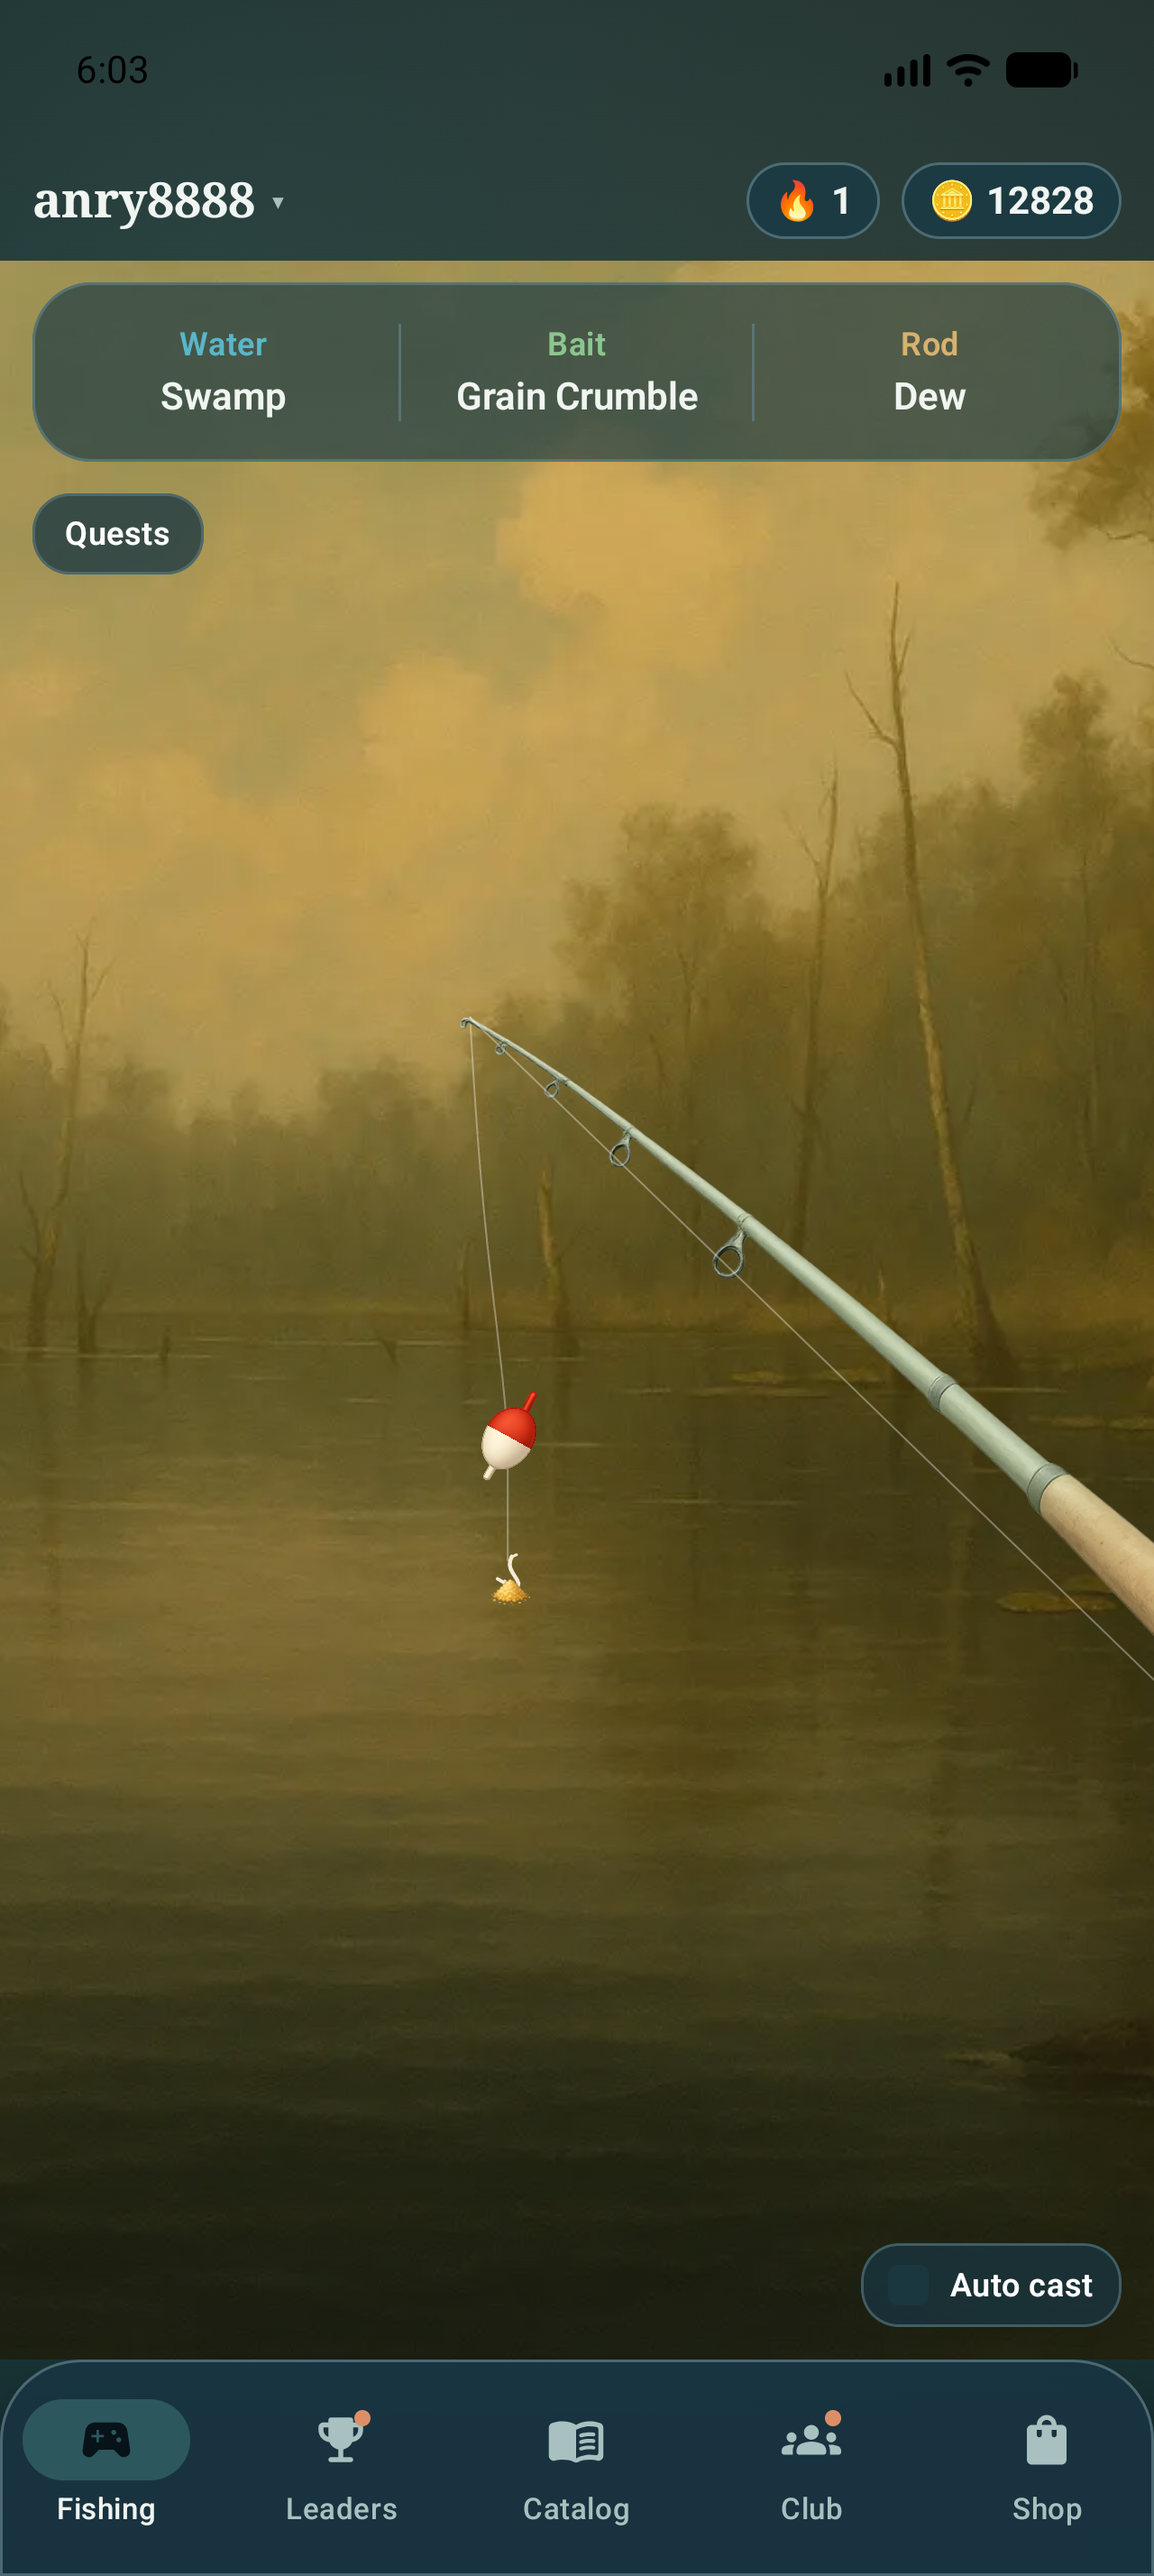
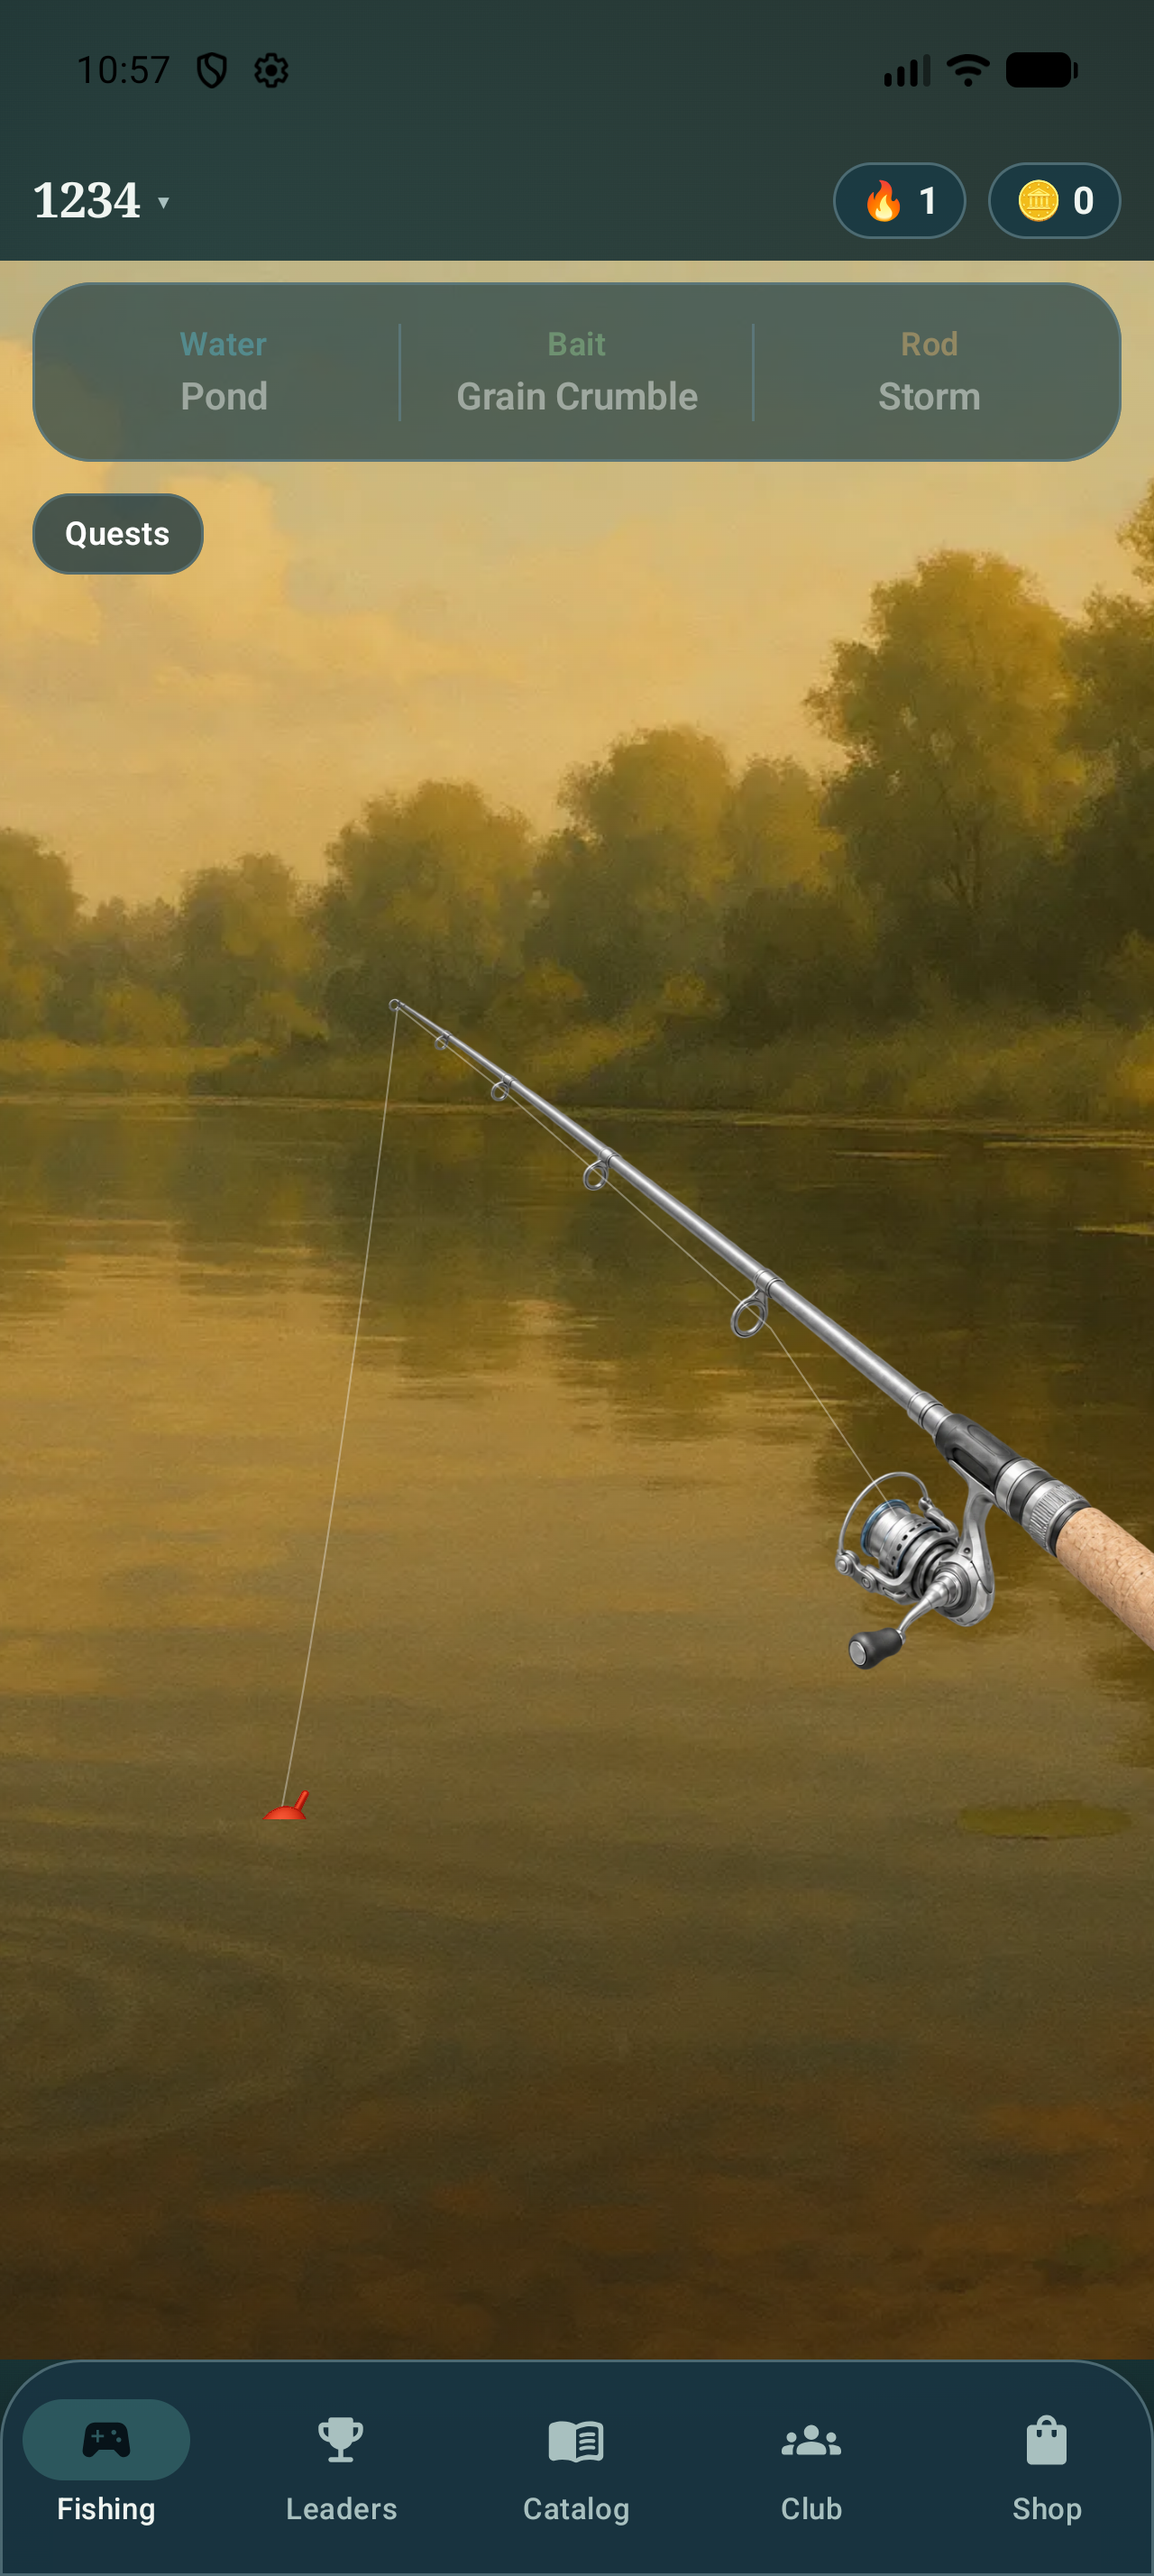
Refresh fishing rod sprites for Android 0.4.14

diff --git a/mobile/android-app/app/src/main/java/com/riverking/mobile/ui/GameTabs.kt b/mobile/android-app/app/src/main/java/com/riverking/mobile/ui/GameTabs.kt
@@ -3547,7 +3547,7 @@ private fun FishingStageScene(
 
             val currentRodCode = state.me?.rods?.firstOrNull { it.id == state.me?.currentRodId }?.code
             val rodUrl = rodAsset(currentRodCode)
-            val rodTipAnchor = rodTipAnchorPercentage(currentRodCode)
+            val rodTipAnchor = fishingRodTipAnchor
 
             // --- Rod sizing matching the TG webapp ---
             // ROD_IMG_SIZE = 1536 x 1024
@@ -3717,7 +3717,7 @@ private fun FishingStageScene(
                 )
 
                 // Rod line points
-                val rodLinePoints = rodLinePointsPercentage(currentRodCode).map {
+                val rodLinePoints = fishingRodLinePoints.map {
                     Offset(
                         x = rodLeftDp.toPx() + rodWidthDp.toPx() * it.x,
                         y = rodTopDp.toPx() + rodHeightDp.toPx() * it.y,
@@ -3887,7 +3887,7 @@ private fun FishingStageScene(
                 contentScale = ContentScale.FillBounds
             )
             Canvas(modifier = Modifier.fillMaxSize()) {
-                val rodLinePoints = rodLinePointsPercentage(currentRodCode).map {
+                val rodLinePoints = fishingRodLinePoints.map {
                     Offset(
                         x = rodLeftDp.toPx() + rodWidthDp.toPx() * it.x,
                         y = rodTopDp.toPx() + rodHeightDp.toPx() * it.y,
@@ -8741,69 +8741,17 @@ private fun localizedAppError(strings: RiverStrings, message: String): String {
     }
 }
 
-private fun rodTipAnchorPercentage(code: String?): androidx.compose.ui.geometry.Offset {
-    return when (code) {
-        "spark" -> androidx.compose.ui.geometry.Offset(0.078f, 0.048f)
-        "dew" -> androidx.compose.ui.geometry.Offset(0.13607f, 0.06641f)
-        "stream" -> androidx.compose.ui.geometry.Offset(0.155f, 0.07422f)
-        "abyss" -> androidx.compose.ui.geometry.Offset(0.14844f, 0.04688f)
-        "storm" -> androidx.compose.ui.geometry.Offset(0.125f, 0.07520f)
-        else -> androidx.compose.ui.geometry.Offset(0.07878f, 0.04785f)
-    }
-}
+private val fishingRodTipAnchor = Offset(117f / 1536f, 55f / 1024f)
 
-private fun rodLinePointsPercentage(code: String?): List<androidx.compose.ui.geometry.Offset> {
-    return when (code) {
-        "spark" -> listOf(
-            androidx.compose.ui.geometry.Offset(0.765f, 0.98f),
-            androidx.compose.ui.geometry.Offset(0.635f, 0.80f),
-            androidx.compose.ui.geometry.Offset(0.495f, 0.61f),
-            androidx.compose.ui.geometry.Offset(0.355f, 0.42f),
-            androidx.compose.ui.geometry.Offset(0.215f, 0.23f),
-            androidx.compose.ui.geometry.Offset(0.078f, 0.048f)
-        )
-        "dew" -> listOf(
-            androidx.compose.ui.geometry.Offset(0.765f, 0.98f),
-            androidx.compose.ui.geometry.Offset(0.639f, 0.797f),
-            androidx.compose.ui.geometry.Offset(0.513f, 0.614f),
-            androidx.compose.ui.geometry.Offset(0.388f, 0.432f),
-            androidx.compose.ui.geometry.Offset(0.262f, 0.249f),
-            androidx.compose.ui.geometry.Offset(0.13607f, 0.06641f)
-        )
-        "stream" -> listOf(
-            androidx.compose.ui.geometry.Offset(0.72f, 1.1f),
-            androidx.compose.ui.geometry.Offset(0.609f, 0.895f),
-            androidx.compose.ui.geometry.Offset(0.497f, 0.690f),
-            androidx.compose.ui.geometry.Offset(0.386f, 0.485f),
-            androidx.compose.ui.geometry.Offset(0.274f, 0.279f),
-            androidx.compose.ui.geometry.Offset(0.155f, 0.07422f)
-        )
-        "abyss" -> listOf(
-            androidx.compose.ui.geometry.Offset(0.765f, 0.98f),
-            androidx.compose.ui.geometry.Offset(0.642f, 0.793f),
-            androidx.compose.ui.geometry.Offset(0.518f, 0.607f),
-            androidx.compose.ui.geometry.Offset(0.395f, 0.420f),
-            androidx.compose.ui.geometry.Offset(0.272f, 0.234f),
-            androidx.compose.ui.geometry.Offset(0.14844f, 0.04688f)
-        )
-        "storm" -> listOf(
-            androidx.compose.ui.geometry.Offset(0.72f, 1.1f),
-            androidx.compose.ui.geometry.Offset(0.603f, 0.895f),
-            androidx.compose.ui.geometry.Offset(0.486f, 0.690f),
-            androidx.compose.ui.geometry.Offset(0.369f, 0.485f),
-            androidx.compose.ui.geometry.Offset(0.251f, 0.280f),
-            androidx.compose.ui.geometry.Offset(0.125f, 0.07520f)
-        )
-        else -> listOf(
-            androidx.compose.ui.geometry.Offset(0.765f, 0.98f),
-            androidx.compose.ui.geometry.Offset(0.635f, 0.80f),
-            androidx.compose.ui.geometry.Offset(0.495f, 0.61f),
-            androidx.compose.ui.geometry.Offset(0.355f, 0.42f),
-            androidx.compose.ui.geometry.Offset(0.215f, 0.23f),
-            androidx.compose.ui.geometry.Offset(0.078f, 0.048f)
-        )
-    }
-}
+// From the reel spool through the lower inside edge of each guide on the 1536×1024 sprite.
+private val fishingRodLinePoints = listOf(
+    Offset(749f / 1536f, 699f / 1024f),
+    Offset(590f / 1536f, 462f / 1024f),
+    Offset(385f / 1536f, 278f / 1024f),
+    Offset(258f / 1536f, 167f / 1024f),
+    Offset(179f / 1536f, 104f / 1024f),
+    fishingRodTipAnchor,
+)
 
 private fun locationBackgroundAsset(location: String?): String? {
     val path = when (location) {

diff --git a/src/main/resources/webapp/scripts/shared.js b/src/main/resources/webapp/scripts/shared.js
@@ -78,7 +78,9 @@
     if (cached) return cached;
     const requestPath = info.requestPath;
     if (!requestPath) return Promise.reject(new Error('invalid asset path'));
-    const inflight = fetch(`/api/assets/${requestPath}`, { credentials: 'include' })
+    // Rod images are served with immutable caching, so pair the new artwork with the new guide points.
+    const assetVersion = requestPath.startsWith('rods/') ? '?v=2' : '';
+    const inflight = fetch(`/api/assets/${requestPath}${assetVersion}`, { credentials: 'include' })
       .then(resp => {
         if (!resp.ok) {
           const err = new Error(`asset ${resp.status}`);
@@ -470,80 +472,23 @@
     }
     return null;
   };
-  const ROD_TIP_ANCHOR_DEFAULT = { x: 0.07878, y: 0.04785 };
+  const ROD_TIP_ANCHOR_DEFAULT = { x: 117 / 1536, y: 55 / 1024 };
+  // From the reel spool through the lower inside edge of each guide on the 1536×1024 sprite.
+  const ROD_GUIDE_POINTS = [
+    { x: 749 / 1536, y: 699 / 1024 },
+    { x: 590 / 1536, y: 462 / 1024 },
+    { x: 385 / 1536, y: 278 / 1024 },
+    { x: 258 / 1536, y: 167 / 1024 },
+    { x: 179 / 1536, y: 104 / 1024 },
+    ROD_TIP_ANCHOR_DEFAULT
+  ];
   const ROD_CONFIG = {
-    spark: {
-      image: '/app/assets/rods/yellow_rod.png',
-      tipAnchor: { x: 0.078, y: 0.048 },
-      linePoints: [
-        { x: 0.765, y: 0.98 },
-        { x: 0.635, y: 0.80 },
-        { x: 0.495, y: 0.61 },
-        { x: 0.355, y: 0.42 },
-        { x: 0.215, y: 0.23 },
-        { x: 0.078, y: 0.048 }
-      ]
-    },
-    dew: {
-      image: '/app/assets/rods/green_rod.png',
-      tipAnchor: { x: 0.13607, y: 0.06641 },
-      linePoints: [
-        { x: 0.765, y: 0.98 },
-        { x: 0.639, y: 0.797 },
-        { x: 0.513, y: 0.614 },
-        { x: 0.388, y: 0.432 },
-        { x: 0.262, y: 0.249 },
-        { x: 0.13607, y: 0.06641 }
-      ]
-    },
-    stream: {
-      image: '/app/assets/rods/blue_rod.png',
-      tipAnchor: { x: 0.155, y: 0.07422 },
-      linePoints: [
-        { x: 0.72, y: 1.1 },
-        { x: 0.609, y: 0.895 },
-        { x: 0.497, y: 0.690 },
-        { x: 0.386, y: 0.485 },
-        { x: 0.274, y: 0.279 },
-        { x: 0.155, y: 0.07422 }
-      ]
-    },
-    abyss: {
-      image: '/app/assets/rods/black_rod.png',
-      tipAnchor: { x: 0.14844, y: 0.04688 },
-      linePoints: [
-        { x: 0.765, y: 0.98 },
-        { x: 0.642, y: 0.793 },
-        { x: 0.518, y: 0.607 },
-        { x: 0.395, y: 0.420 },
-        { x: 0.272, y: 0.234 },
-        { x: 0.14844, y: 0.04688 }
-      ]
-    },
-    storm: {
-      image: '/app/assets/rods/silver_rod.png',
-      tipAnchor: { x: 0.125, y: 0.07520 },
-      linePoints: [
-        { x: 0.72, y: 1.1 },
-        { x: 0.603, y: 0.895 },
-        { x: 0.486, y: 0.690 },
-        { x: 0.369, y: 0.485 },
-        { x: 0.251, y: 0.280 },
-        { x: 0.125, y: 0.07520 }
-      ]
-    },
-    default: {
-      image: '/app/assets/rods/yellow_rod.png',
-      tipAnchor: ROD_TIP_ANCHOR_DEFAULT,
-      linePoints: [
-        { x: 0.765, y: 0.98 },
-        { x: 0.635, y: 0.80 },
-        { x: 0.495, y: 0.61 },
-        { x: 0.355, y: 0.42 },
-        { x: 0.215, y: 0.23 },
-        { x: 0.078, y: 0.048 }
-      ]
-    },
+    spark: { image: '/app/assets/rods/yellow_rod.png', tipAnchor: ROD_TIP_ANCHOR_DEFAULT, linePoints: ROD_GUIDE_POINTS },
+    dew: { image: '/app/assets/rods/green_rod.png', tipAnchor: ROD_TIP_ANCHOR_DEFAULT, linePoints: ROD_GUIDE_POINTS },
+    stream: { image: '/app/assets/rods/blue_rod.png', tipAnchor: ROD_TIP_ANCHOR_DEFAULT, linePoints: ROD_GUIDE_POINTS },
+    abyss: { image: '/app/assets/rods/black_rod.png', tipAnchor: ROD_TIP_ANCHOR_DEFAULT, linePoints: ROD_GUIDE_POINTS },
+    storm: { image: '/app/assets/rods/silver_rod.png', tipAnchor: ROD_TIP_ANCHOR_DEFAULT, linePoints: ROD_GUIDE_POINTS },
+    default: { image: '/app/assets/rods/yellow_rod.png', tipAnchor: ROD_TIP_ANCHOR_DEFAULT, linePoints: ROD_GUIDE_POINTS }
   };
   const ROD_IMAGES = Object.fromEntries(Object.entries(ROD_CONFIG).map(([code, cfg]) => [code, cfg.image]));
   const ROD_TIP_ANCHORS = Object.fromEntries(Object.entries(ROD_CONFIG).map(([code, cfg]) => [code, cfg.tipAnchor]));

diff --git a/src/test/kotlin/app/AuthRoutesTest.kt b/src/test/kotlin/app/AuthRoutesTest.kt
@@ -364,7 +364,8 @@ class AuthRoutesTest {
         assertEquals(AndroidUpdateService.INSTALL_MODE_DOWNLOAD_APK, directBody.installMode)
         assertEquals("https://itch.example/downloads/riverking.apk", directBody.installUrl)
         assertEquals("https://itch.example/riverking", directBody.fallbackUrl)
-        assertEquals(true, directBody.releaseNotes.any { it.contains("рыб", ignoreCase = true) })
+        val russianReleaseNotes = policy.getValue("releaseNotes").jsonObject.getValue("ru").jsonArray
+        assertEquals(russianReleaseNotes.map { it.jsonPrimitive.content }, directBody.releaseNotes)
 
         val playUpdate = client.get("/api/mobile/update") {
             androidClientHeaders(versionCode = 0, channel = AndroidUpdateService.CHANNEL_PLAY)

diff --git a/src/main/resources/webapp/index.html b/src/main/resources/webapp/index.html
@@ -348,7 +348,7 @@
 <body>
   <div id="root"></div>
 
-  <script type="text/babel" data-presets="env,react" src="/app/scripts/shared.js"></script>
+  <script type="text/babel" data-presets="env,react" src="/app/scripts/shared.js?v=rods-2"></script>
   <script type="text/babel" data-presets="env,react" src="/app/scripts/components.js"></script>
   <script type="text/babel" data-presets="env,react" src="/app/scripts/tabs/fishing.js"></script>
   <script type="text/babel" data-presets="env,react" src="/app/scripts/tabs/tournaments.js"></script>
